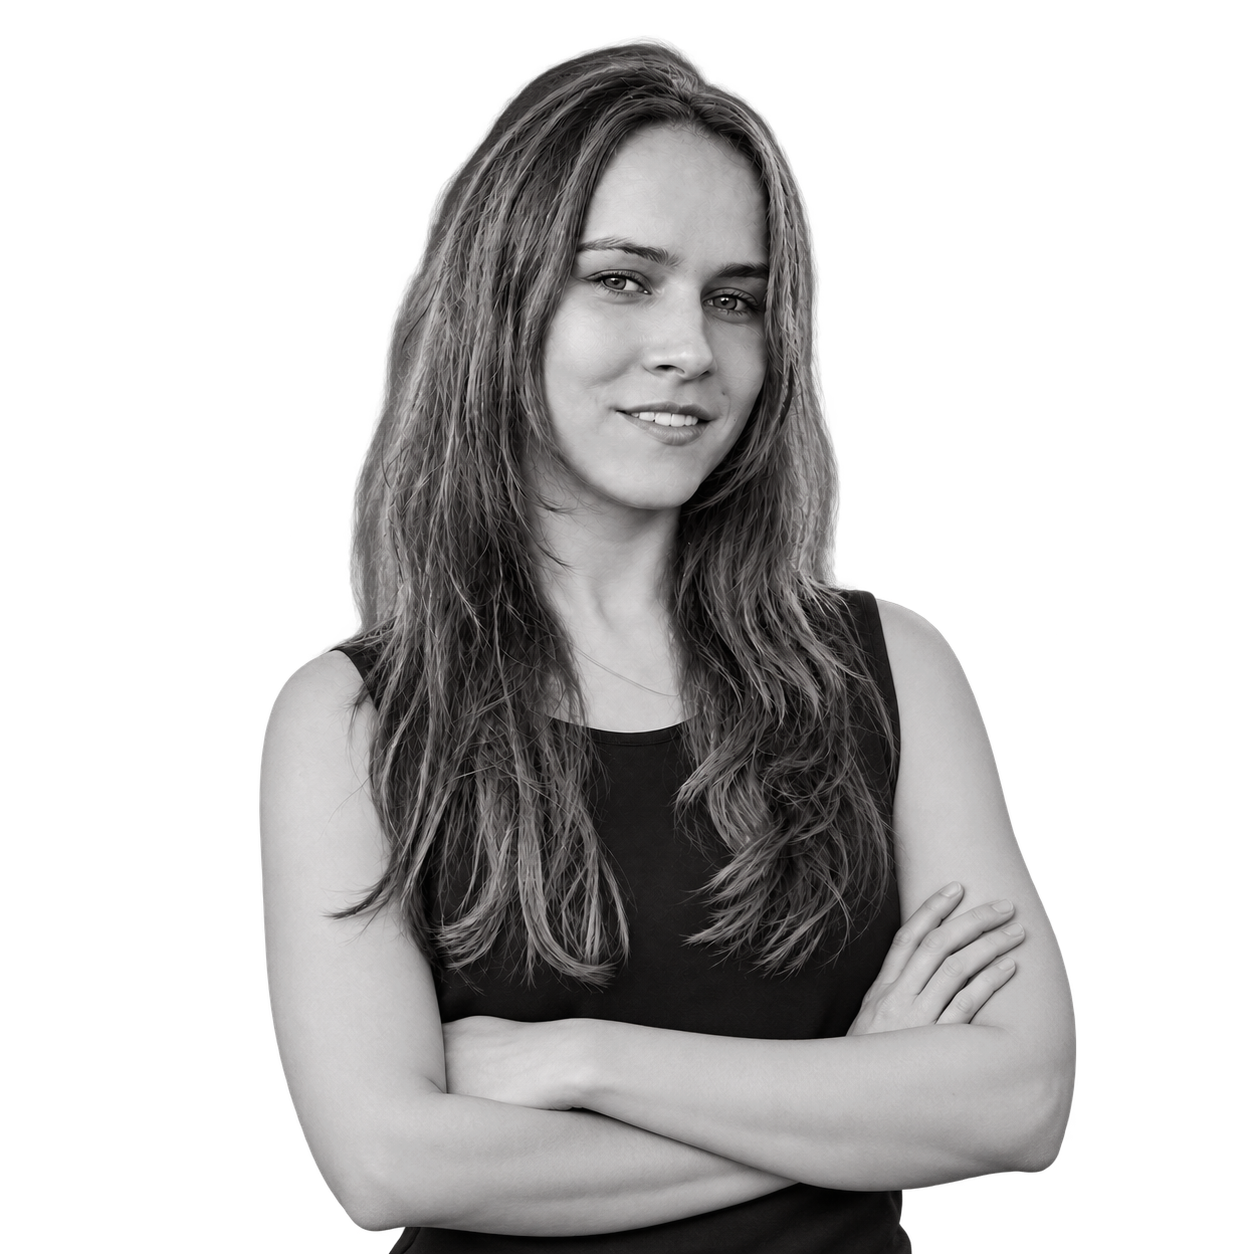
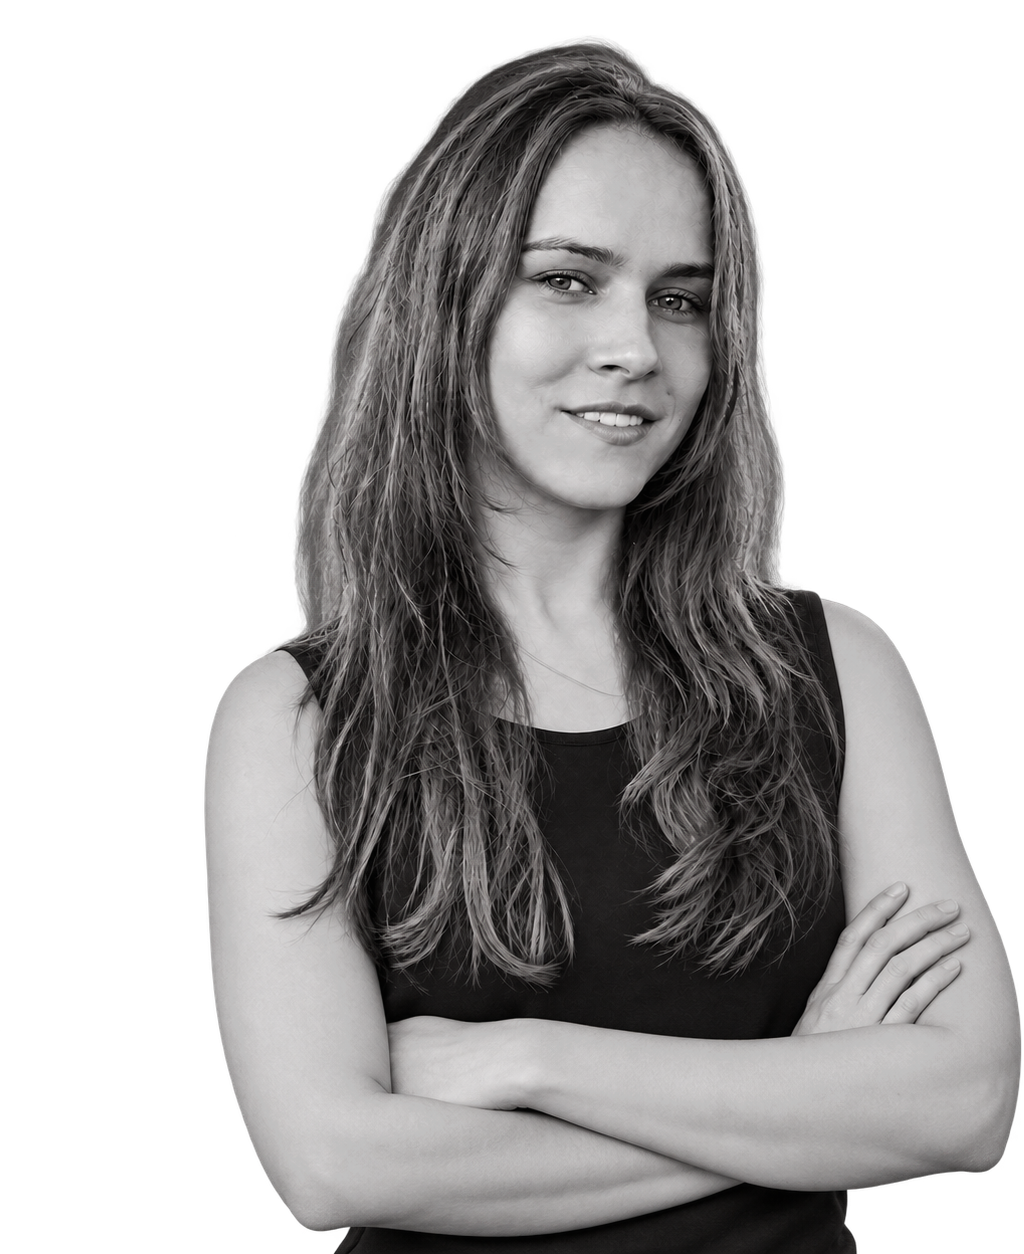
Crop transparent portrait margins

diff --git a/index.html b/index.html
@@ -25,7 +25,7 @@
     <main id="top">
       <section class="shell hero">
         <div class="hero__copy"><h1>Дизайнер<br />образовательных материалов</h1><p>Создаю презентации, учебные материалы, карточки услуг и сайты-портфолио для экспертов, преподавателей и образовательных проектов.</p></div>
-        <div class="hero__portrait"><img class="portrait" src="public/assets/portrait-crossed.png" alt="Анастасия Велюга" /></div>
+        <div class="hero__portrait"><img class="portrait" src="public/assets/portrait-crossed.png?v=2" alt="Анастасия Велюга" /></div>
       </section>
 
       <section class="shell section" id="services">
